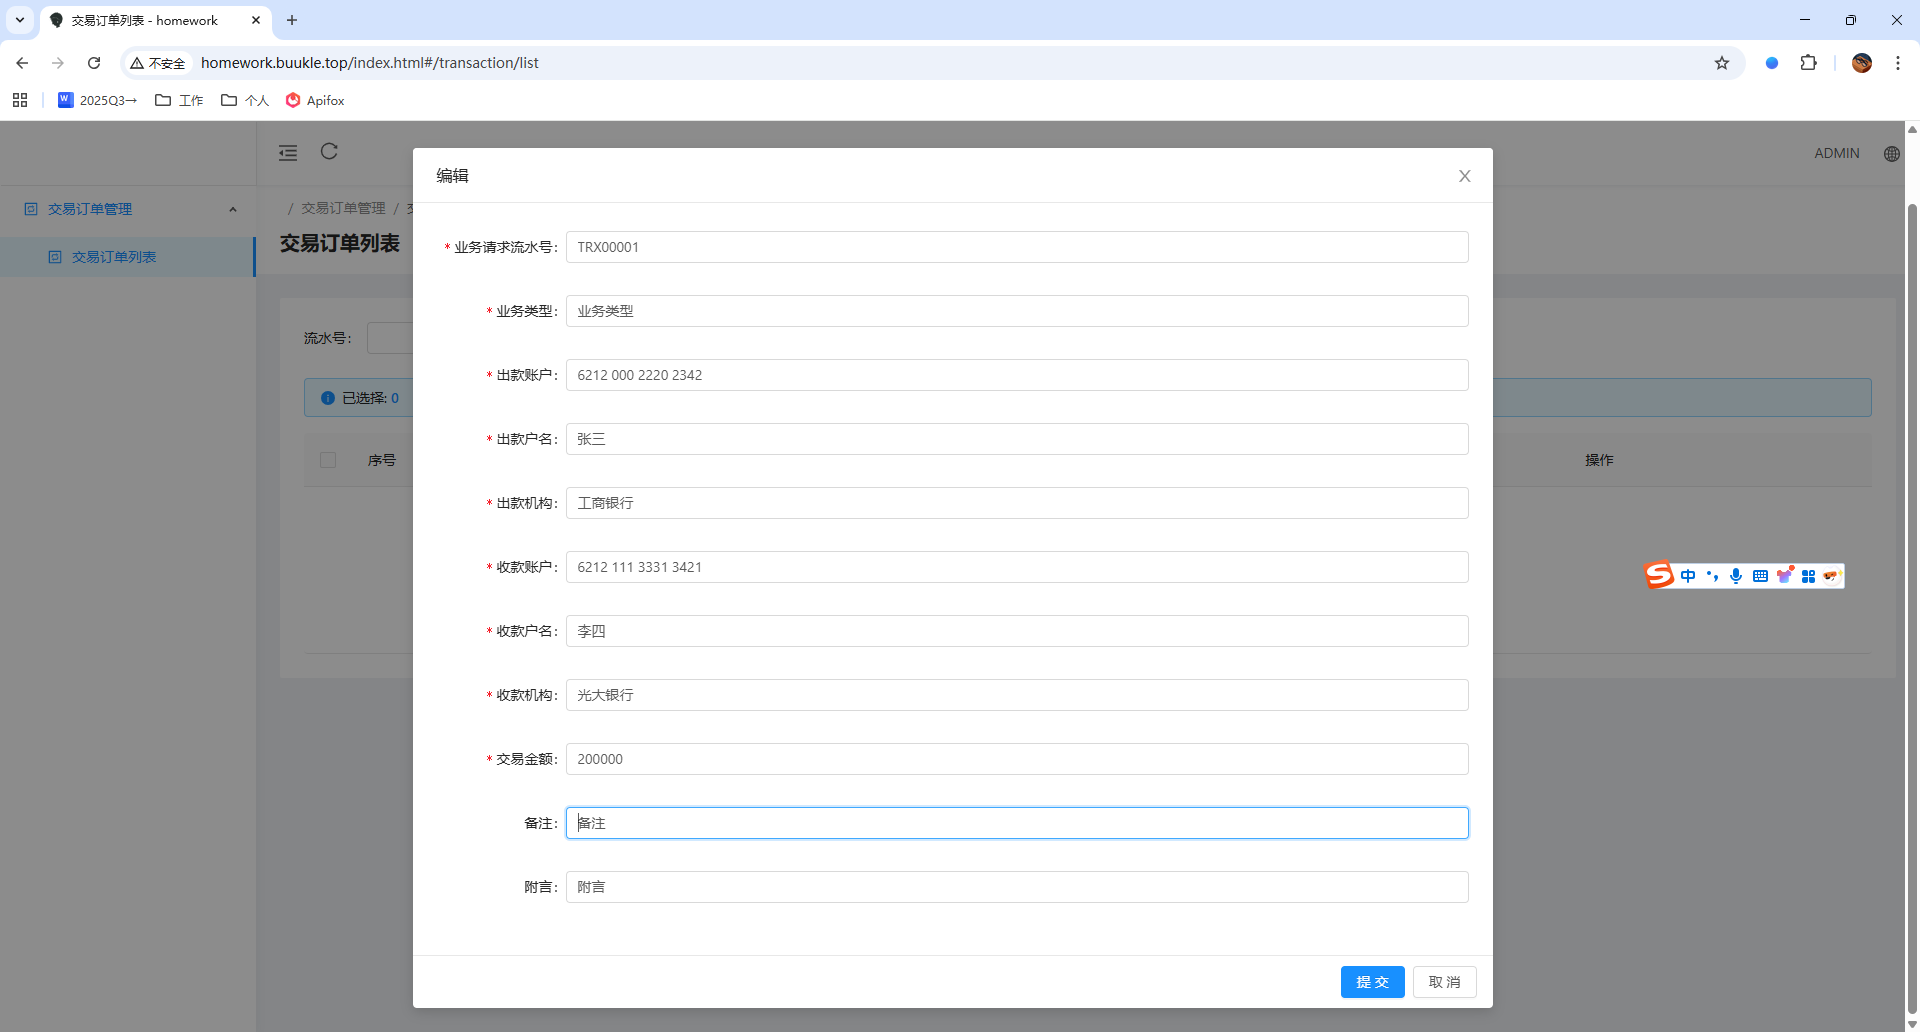
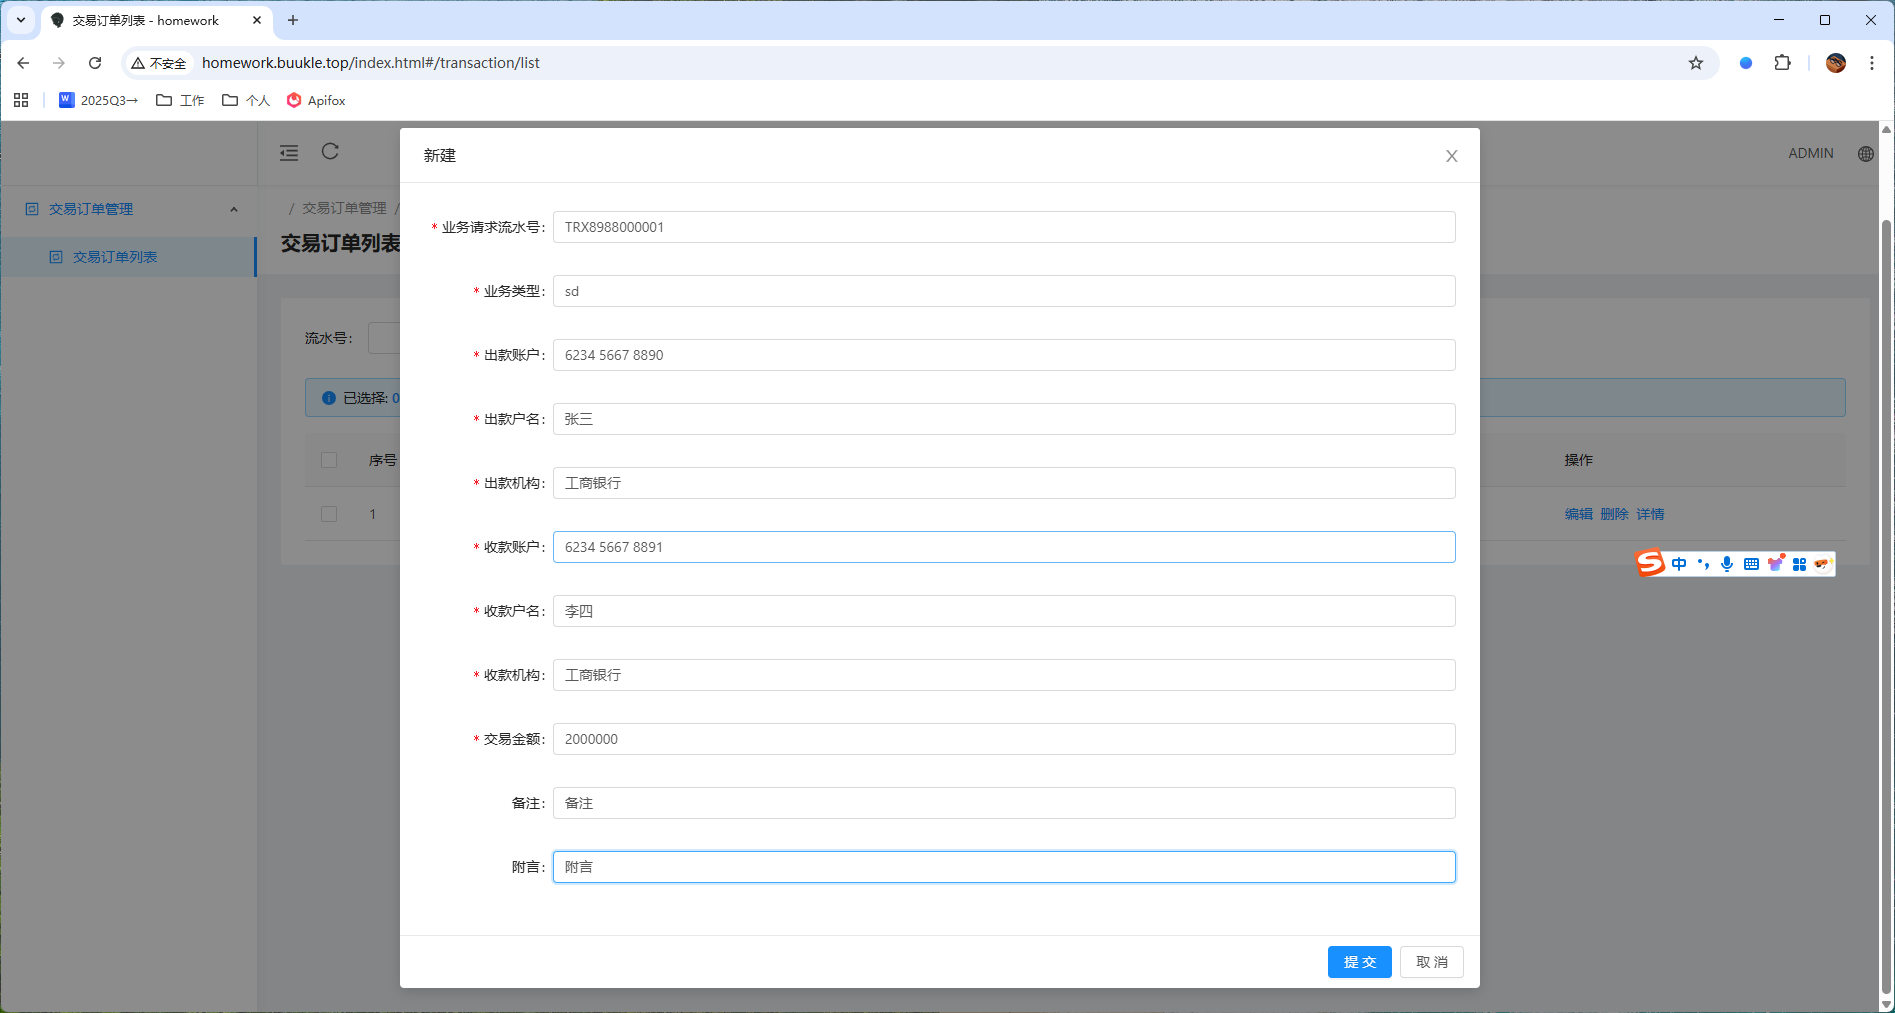
doc

diff --git a/README.md b/README.md
@@ -311,10 +311,16 @@ CREATE TABLE TRANSACTION_ORDER (
 
 * 新增交易
   ![add.png](doc/add.png)
+  新增后
+  ![add-after.png](doc/add-after.png)
 * 删除交易
   ![delete.png](doc/delete.png)
+  删除后
+  ![delete-after.png](doc/delete-after.png)
 * 更新交易
   ![update.png](doc/update.png)
+  更新后
+  ![update-after.png](doc/update-after.png)
 * 查询交易 - 分页
   第一页 
   ![page.png](doc/page1.png)
